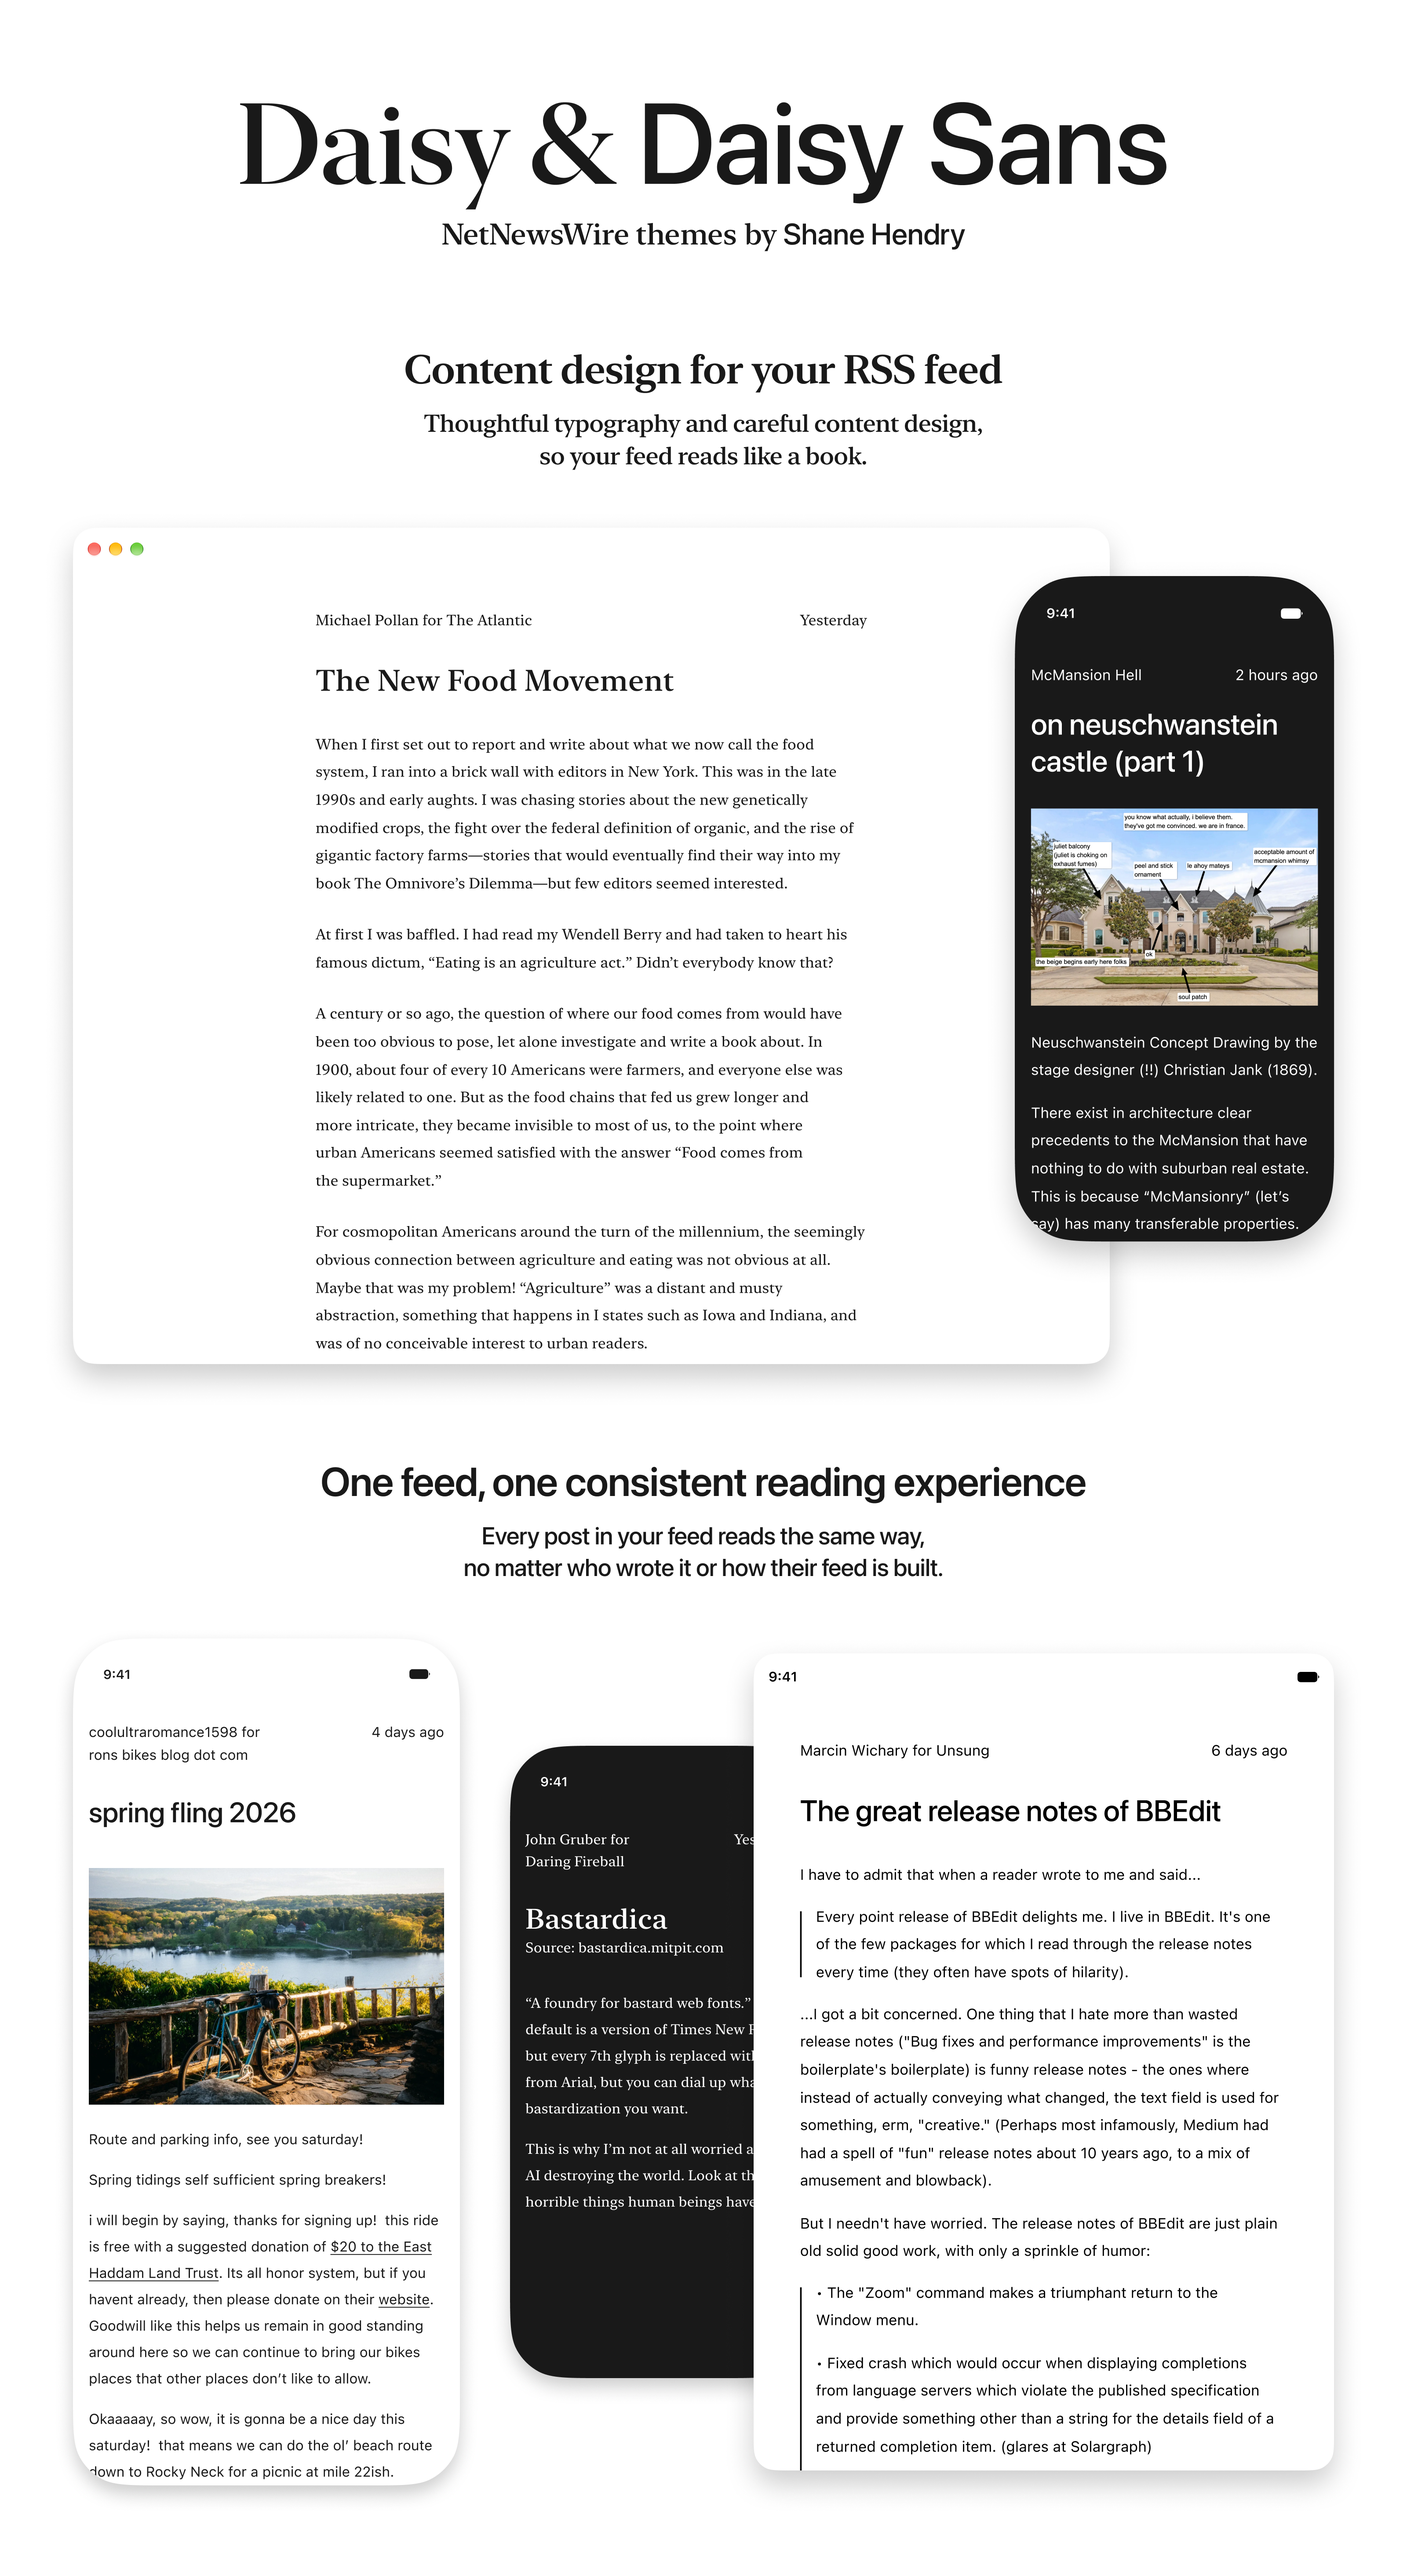
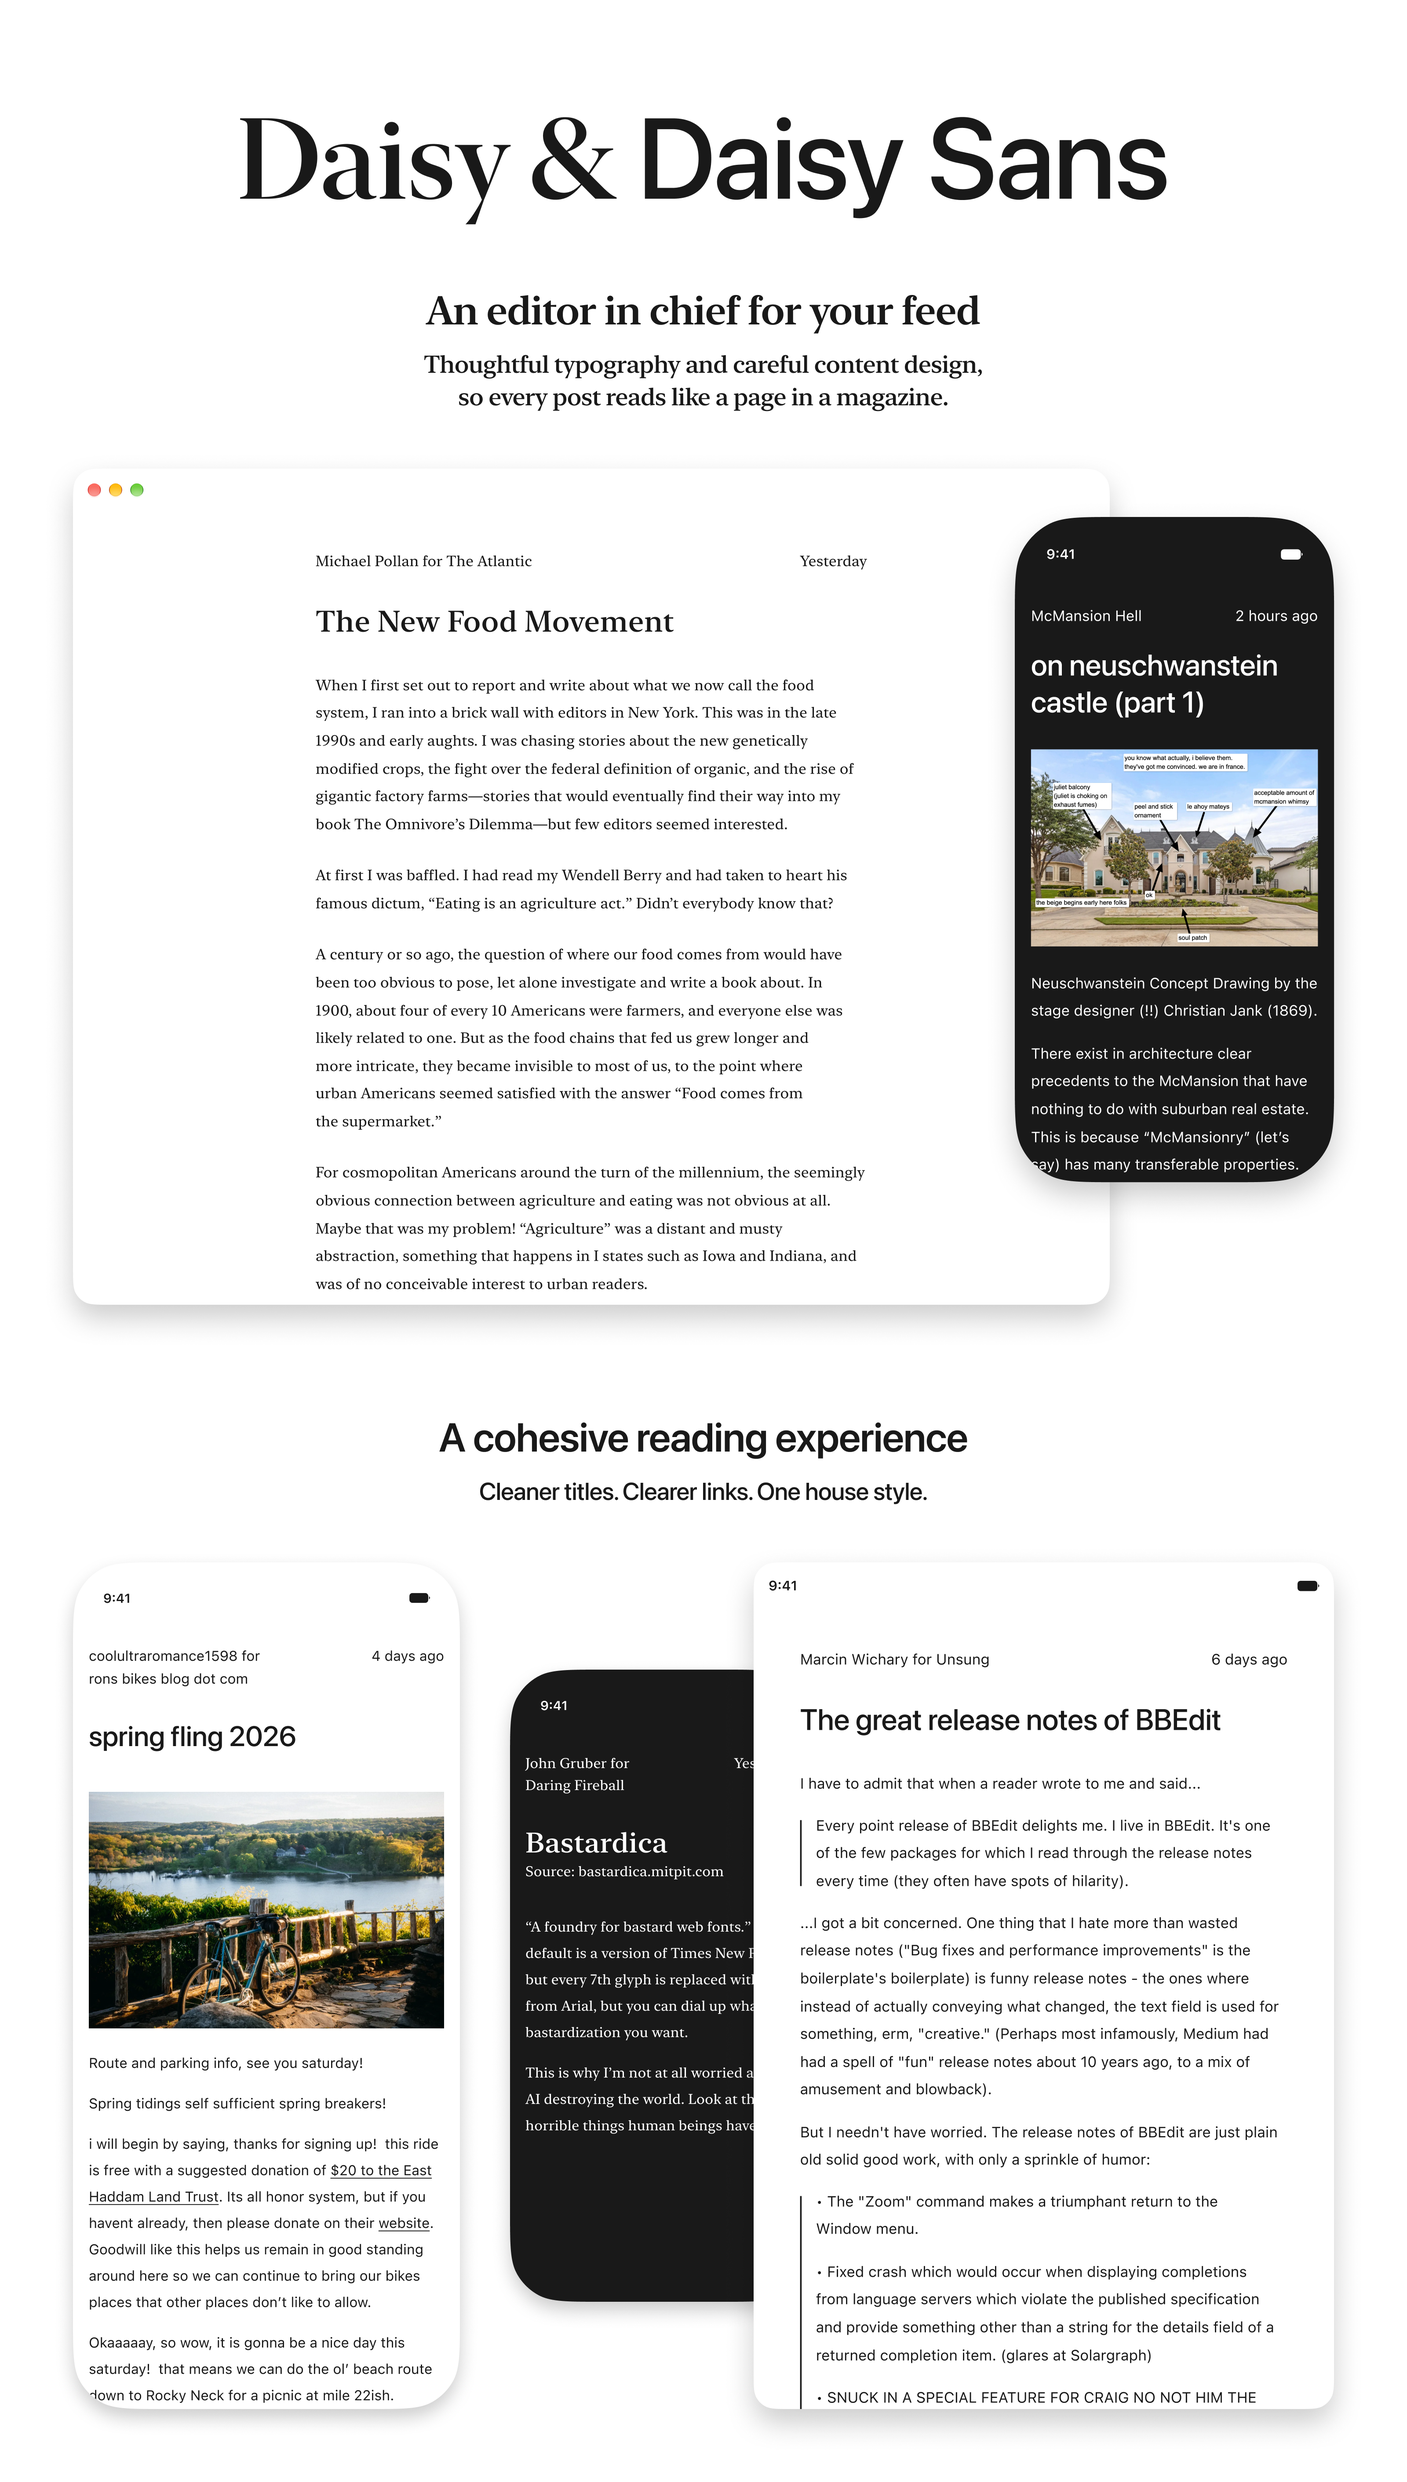
README and hero image update

diff --git a/README.md b/README.md
@@ -9,13 +9,13 @@ Two [NetNewsWire](https://netnewswire.com/) themes by [Shane Hendry](https://sha
 - **Daisy Sans** is set in SF Pro
 <!-- nnw-theme-identity:end -->
 
-## Let the words do the work
+## An editor in chief for your feed
 
-Daisy and Daisy Sans bring content design to your RSS feed. They clean up unusual RSS data for a more polished and consistent reading experience.  
+Daisy and Daisy Sans bring content design to your RSS feed. They clean up RSS data for a cohesive reading experience.  
   
-* Simple, consistent bylines: **Matilda Jeffries for Time,** or just **FOR SCALE**  
-* Relative times: **2 hours ago**, **Yesterday**, with the exact time on tap  
-* Smart **eyebrow** and **secondary link** fields for nicer, more consistent titles  
+* Simple, consistent bylines
+* Smart title blocks with conditional eyebrows and secondary links
+* Timestamps are relative and reveal the exact time on tap
 * Clear, interactive footnotes  
 * Deduplicates links and content  
 * Hides platform-injected content blocks, so you only see what the author intended  
